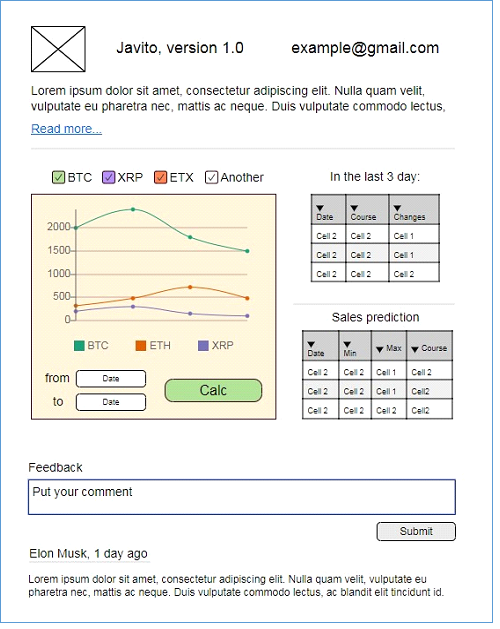
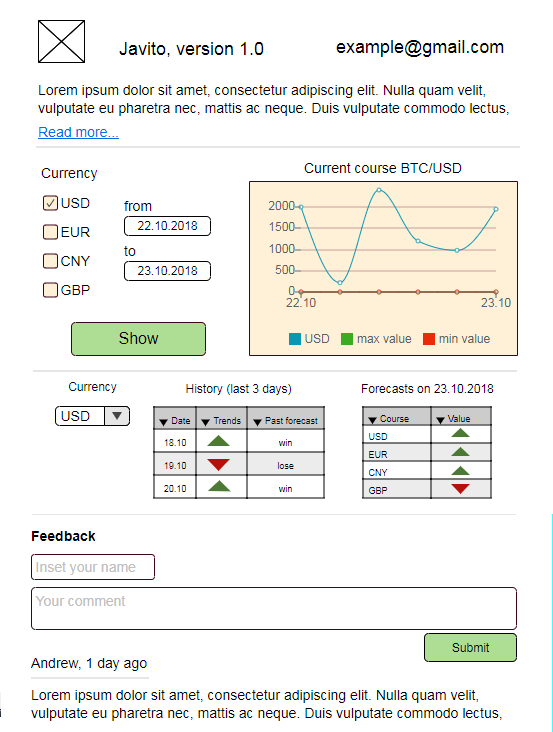
Update README.md

diff --git a/specification/README.md b/specification/README.md
@@ -1,4 +1,4 @@
-# Спецификация требований к приложению Javito
+# Спецификация требований к приложению Javito
 
 ## 1. Назначение
 
@@ -150,16 +150,15 @@ https://www.coindesk.com/price/.
 <ins>График изменений курса биткоина</ins>.
 
 * Инструмент помогает отследить состояние курса биткоина по отношению к четырем валютам-фильтрам: USD, EUR, CNY и GBP;
-* График строится за тот промежуток времени, который вводит пользователь в специальных графах выбора дат. минимальный интервал отображения изменений - 1 день;
+* График строится за тот промежуток времени, который вводит пользователь в специальных графах выбора дат. Минимальный интервал отображения изменений - 1 день;
 * Система определяет максимальное и минимальное значение курса биткоина за тот промежуток времени, который выбирает пользователь. Критические точки максимума и минимума графика окрашиваются в зеленый и красный цвет соответственно.
 
-<ins>Таблица, в которой отображаются данные последнего закрытия торгов биткоинами по отношению к валютам</ins>.
+<ins>Таблица, которая отображает историю поведения курса биткоина и истинность алгоритма предсказания. История фиксируется за последние три дня в зависимости от валюты из выпадающего списка. Таблица состоит из трех столбцов: дата, направление динамики курса, и истинность предсказаний алгоритма. Если предсказания совпали с реальным поведением курса за определенный день, то выводится win, иначе - lose.</ins>.
 
-<ins>Таблица, которая прогнозирует поведение курса биткоина на следующий день. Состоит из 3-х столбцов</ins>:
+<ins>Таблица, которая прогнозирует поведение курса биткоина на следующий день. Состоит из 2-х столбцов</ins>:
 
-* Валюта, по которой строится прогноз поведения;
-* Прогноз роста/падения котировок на следующий календарный день. Зеленая стрелка сигнализирует о том, что алгоритм предсказывает рост курса, красная - его снижение; 
-* Истинность алгоритма. В данном столбце пользователь может посмотреть корректность алгоритма предсказания. Если алгоритм угадал поведение графика (рост/падение) за прошлый день, то в ячейке выводится “win”, иначе “lose”;
+* Валюта, для которой строится прогноз поведения;
+* Прогноз роста/падения котировок на следующий календарный день. Зеленая стрелка сигнализирует о том, что алгоритм предсказывает рост курса, красная - его снижение.
 
 <ins>На сайте системы любой пользователь может оставить свой  комментарий</ins>:
 
